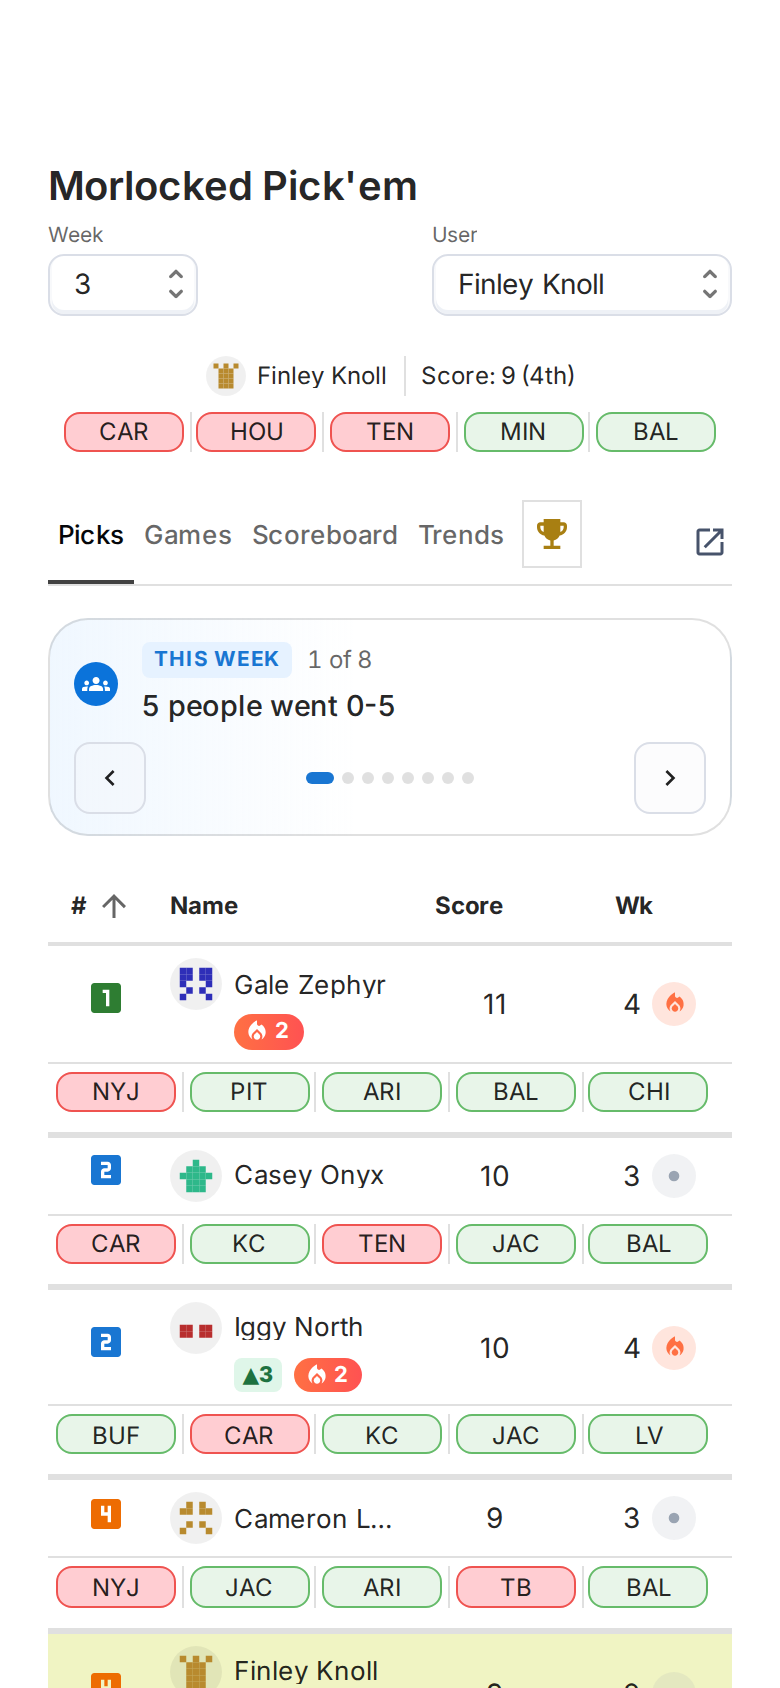
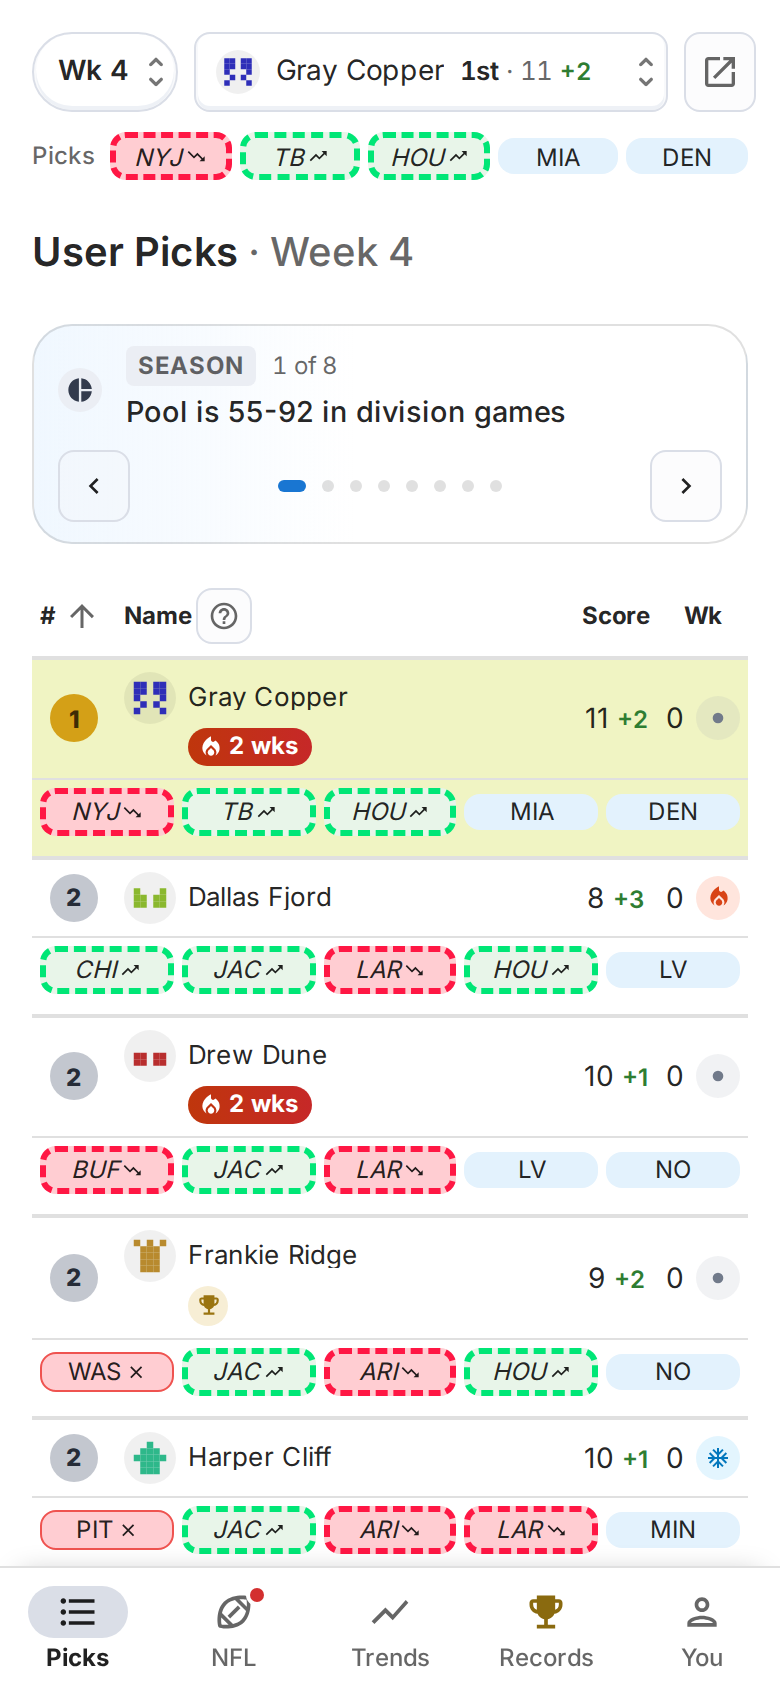
README: new screenshots of every tab, with names masked

diff --git a/README.md b/README.md
@@ -6,47 +6,53 @@ All the data is written in [https://github.com/RyanThornburg/cbs-pickem](https:/
 
 ## Screenshots
 
-Player names in these screenshots are replaced with made-up ones.
+Player names in these screenshots are replaced with made-up ones. Taken during the 1 PM games of week 4, 2026.
 
 ### User Picks
 
-The weekly leaderboard with everyone's picks, the week's recap strip, and badges for streaks, movers and the defending champion.
+The weekly leaderboard with everyone's picks (live ones show whether they're covering), paid lines, the week's recap strip, and badges for streaks, movers and the defending champion. The header shows the selected player's picks, place and money standing on every tab.
 
 ![User Picks](docs/screenshots/user-picks.png)
 
-Click a row for that player's season trends.
+### Player pages
 
-![User Picks with a player's trend panel open](docs/screenshots/user-picks-expanded.png)
+Click a name for that player's page: every week's picks, how they do by kind of pick and by the line, notes on their season, and their finishes over the years. The **You** tab opens the selected player's own page.
 
-### Games
+![A player's page](docs/screenshots/player.png)
 
-Lines, market spread and movement, O/U, and kickoff weather with an hourly strip.
+### NFL
 
-![Games](docs/screenshots/games.png)
+One tab with three views. **Games** has the CBS line against Vegas, line moves, O/U, and kickoff weather with an hourly strip.
 
-### Scoreboard
+![NFL, Games](docs/screenshots/nfl-games.png)
 
-Live and final scores with quarter scores, who picked each side, and your pick's status.
+**Live** has scores with your picks summed up on top, who picked each side, and close-game and red-zone borders. Full cards or a compact list.
 
-![Scoreboard](docs/screenshots/scoreboard.png)
+![NFL, Live](docs/screenshots/nfl-live.png)
 
-Each game opens to its leaders, scoring plays and team stats.
+Each live or final game opens to win probability, the margin against the CBS line, leaders, scoring plays, team stats and every player's stats.
 
-![Scoreboard with a box score open](docs/screenshots/scoreboard-box-score.png)
+<img src="docs/screenshots/live-box-score.png" alt="A live game's box score" width="480">
+
+**Standings** has every division with each team's record against the CBS line and the pool's record picking them. Team marks link to team pages.
+
+![NFL, Standings](docs/screenshots/standings.png)
+
+![A team page](docs/screenshots/team.png)
 
 ### Trends
 
-The week's recap cards, consensus, lone picks and line movers.
+The week's recap cards, how the pool split on each game, and the picks nobody else made.
 
 ![Trends, week view](docs/screenshots/trends-week.png)
 
-Season charts and a sortable table of every team.
+The season's recap, accuracy and chaos charts, and a table of the teams the pool picks.
 
 ![Trends, season view](docs/screenshots/trends-season.png)
 
 ### Records
 
-Champions and all-time records back to 2013.
+Your all-time line, every champion back to 2013, and each player's finish by year.
 
 ![Records](docs/screenshots/records.png)
 
@@ -54,7 +60,7 @@ Champions and all-time records back to 2013.
 
 <p>
   <img src="docs/screenshots/mobile-user-picks.png" alt="User Picks on a phone" width="300">
-  <img src="docs/screenshots/mobile-scoreboard.png" alt="Scoreboard on a phone, compact layout" width="300">
+  <img src="docs/screenshots/mobile-live.png" alt="NFL Live on a phone, compact layout" width="300">
 </p>
 
 ## Stack
@@ -71,7 +77,7 @@ Champions and all-time records back to 2013.
 
 ## Project layout
 
-- `src/dashboard/components/` one folder per dashboard widget (Scoreboard, UsersTable, TrendsSection, GamesCard, etc.)
+- `src/dashboard/components/` one folder per tab or widget (UsersTable, Nfl, GamesCard, Scoreboard, Players, TrendsSection, RecordsSection, etc.)
 - `src/dashboard/types.ts` shared data types
 - `worker/` the Cloudflare Worker that serves data from KV
 - `src/dashboard/icons/` team logo PNGs
